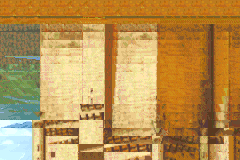
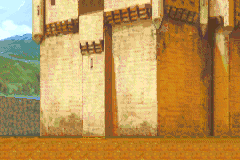
Store the background map rows bottom to top
The map rows are stored from the bottom of the screen to the top, as
tsa_generator.py writes them (its order_chunks reverses the row order,
and tmap2tsa.py reverses it back). tsa_png.py read the first row as the
top of the screen, so every rendered screen PNG was upside down.

Render and build the rows in that order, and give the overrides in
screen coordinates (column and row from the top-left). Re-render the
eight screen PNGs. All eight maps still rebuild byte-for-byte, through
the script and through make, and Manse_Back still needs the same 17
overrides.

diff --git a/scripts/tsa_png.py b/scripts/tsa_png.py
@@ -19,6 +19,10 @@
 #
 # Map binary layout: one byte width-1, one byte height-1, then width*height
 # little-endian 16-bit entries (tile | hflip << 10 | vflip << 11 | bank << 12).
+# The rows are stored from the bottom of the screen to the top, each row from
+# left to right (the same order tsa_generator.py writes). Cells in this script's
+# overrides file and messages use screen coordinates: column and row from the
+# top-left corner.
 #
 # A flipped symmetric tile looks the same as an unflipped one, so the picture
 # cannot say which one the map used. By default the lowest tile number with the
@@ -99,7 +103,7 @@ def build(screen_path, sheet_path, overrides_path):
             lookup.setdefault(pixels.tobytes(), []).append((number, flips))
     overrides = read_overrides(overrides_path)
 
-    entries = []
+    entries = [0] * (cols * rows)
     for row in range(rows):
         for col in range(cols):
             cell = screen[row * 8:(row + 1) * 8, col * 8:(col + 1) * 8]
@@ -119,7 +123,7 @@ def build(screen_path, sheet_path, overrides_path):
             else:
                 tile, flips = min(matches, key=lambda m: (m[0], m[1][0] + m[1][1]))
                 entry = tile | (flips[0] << 10) | (flips[1] << 11) | (bank << 12)
-            entries.append(entry)
+            entries[(rows - 1 - row) * cols + col] = entry
     return bytes([cols - 1, rows - 1]) + struct.pack(f"<{len(entries)}H", *entries)
 
 
@@ -135,7 +139,8 @@ def render(map_path, sheet_path, pal_path, out_path):
         tile, hflip, vflip, bank = decode_entry(entry)
         if tile >= len(tiles):
             fail(f"{map_path}: entry {i} uses tile {tile}, but the sheet has {len(tiles)}")
-        screen[(i // cols) * 8:(i // cols + 1) * 8, (i % cols) * 8:(i % cols + 1) * 8] = (
+        row = rows - 1 - i // cols
+        screen[row * 8:(row + 1) * 8, (i % cols) * 8:(i % cols + 1) * 8] = (
             bank * 16 + flipped(tiles[tile])[(hflip, vflip)])
     lines = open(pal_path, encoding="utf-8").read().splitlines()
     if lines[0] != "JASC-PAL":
@@ -150,7 +155,7 @@ def suggest_overrides(built, expected):
     width, height = expected[0] + 1, expected[1] + 1
     a = struct.unpack(f"<{width * height}H", built[2:])
     b = struct.unpack(f"<{width * height}H", expected[2:])
-    return [f"{i % width} {i // width} 0x{b[i]:04x}" for i in range(width * height) if a[i] != b[i]]
+    return [f"{i % width} {height - 1 - i // width} 0x{b[i]:04x}" for i in range(width * height) if a[i] != b[i]]
 
 
 def main():

diff --git a/docs/Background_TSA_Report.md b/docs/Background_TSA_Report.md
@@ -4,7 +4,7 @@
 Remove the raw binary tile maps (`.bin`) for eight backgrounds from the repository and make a picture the source of each map. These are the backgrounds that were still built with `.4bpp.lz` tiles and a raw `.bin` map (see `data/data_bg.s`), instead of the generated `.feimg2.bin` / `.fetsa2.bin` pair that most other backgrounds use: Cell, Grass_Plains_2, Interior_Black, Castle_Back, Garden, Manse_Back, Serafew_Village, and Volcano.
 
 ## Format
-A background map is a TSA: one byte of width-1, one byte of height-1, then width × height little-endian 16-bit entries, row by row from the top-left. Each entry is:
+A background map is a TSA: one byte of width-1, one byte of height-1, then width × height little-endian 16-bit entries. The rows are stored from the bottom of the screen to the top, each row left to right (the same order `tsa_generator.py` writes). Each entry is:
 
 - bits 0–9: tile index into the tile sheet
 - bit 10: horizontal flip
@@ -35,7 +35,7 @@ For each 8 × 8 cell, the script looks up the cell's pixels in the tile sheet, w
 
 A flipped symmetric tile looks the same as an unflipped one, so the picture cannot say which one the original map used. By default the script picks the lowest tile number with the fewest flips. The 17 cells in Manse_Back that differ from that choice are symmetric tiles the original marks as flipped, and `bg_Manse_Back.overrides` gives their entries. An override has to produce the same picture as the cell it replaces, or the script stops.
 
-The overrides file was produced with the `--expect` option, which compares the built map with a known-good one and prints the lines to add.
+The overrides file was produced with the `--expect` option, which compares the built map with a known-good one and prints the lines to add. Cells in it are given as screen coordinates: column and row from the top-left corner.
 
 | Background | Palette banks used | Horizontal flips | Vertical flips | Overrides |
 |---|---|---|---|---|
